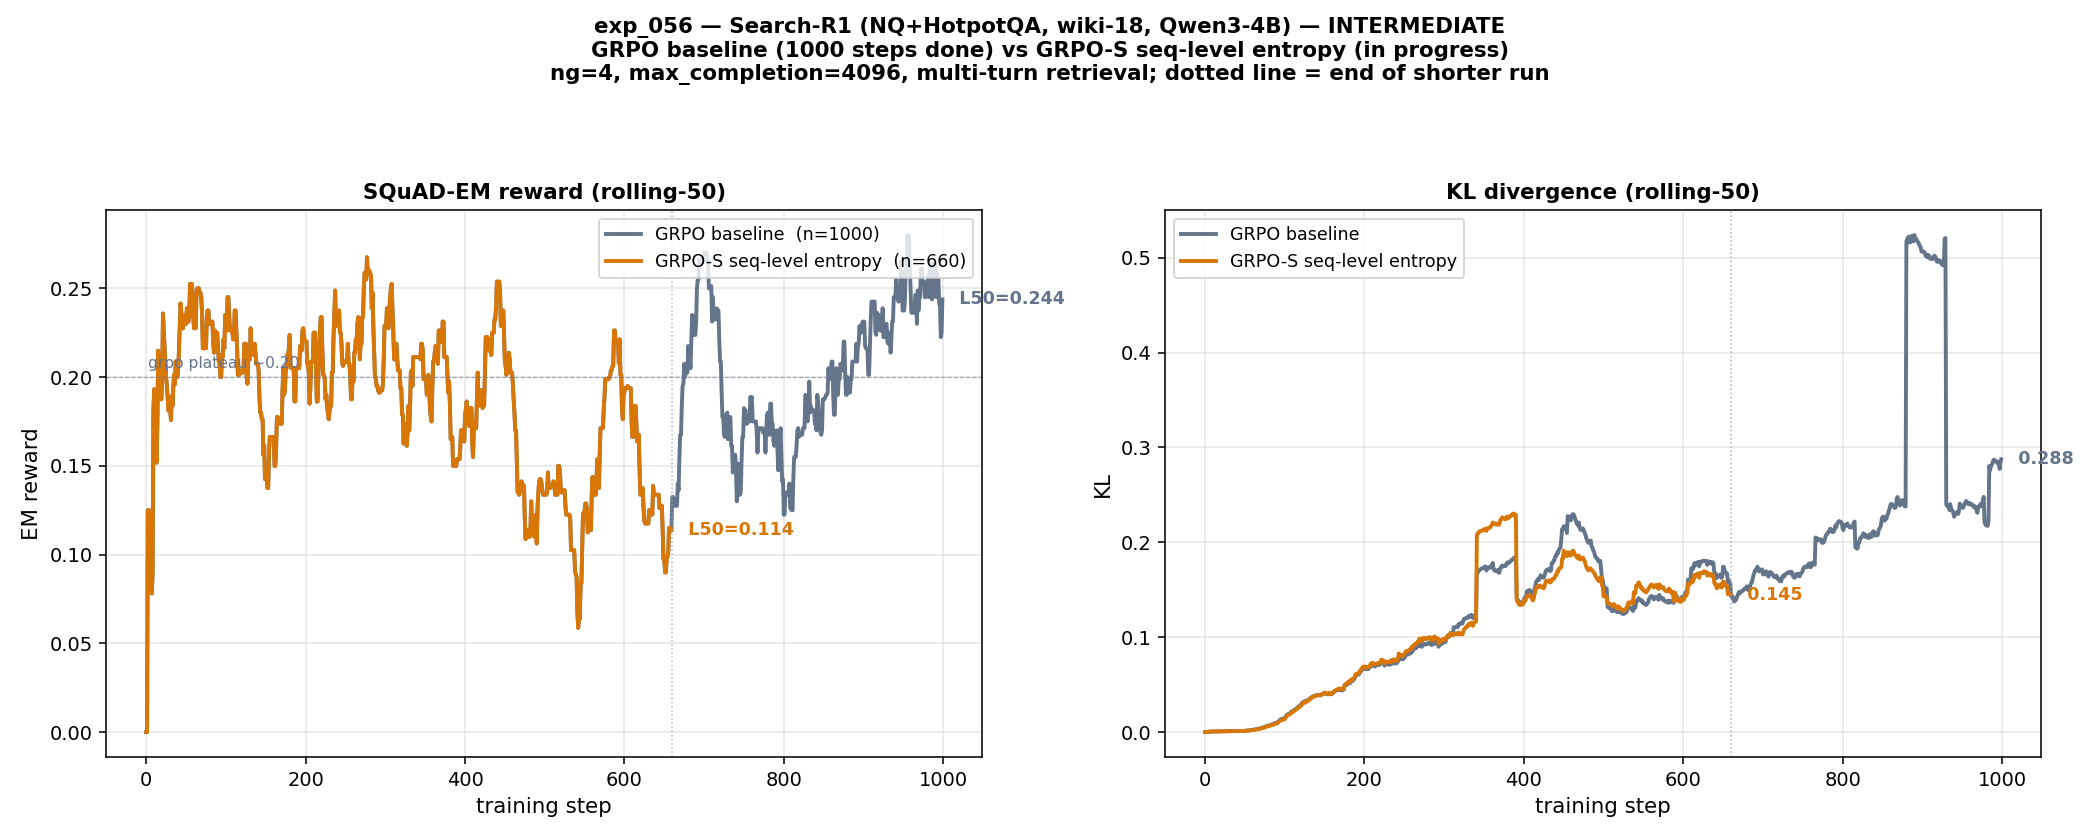
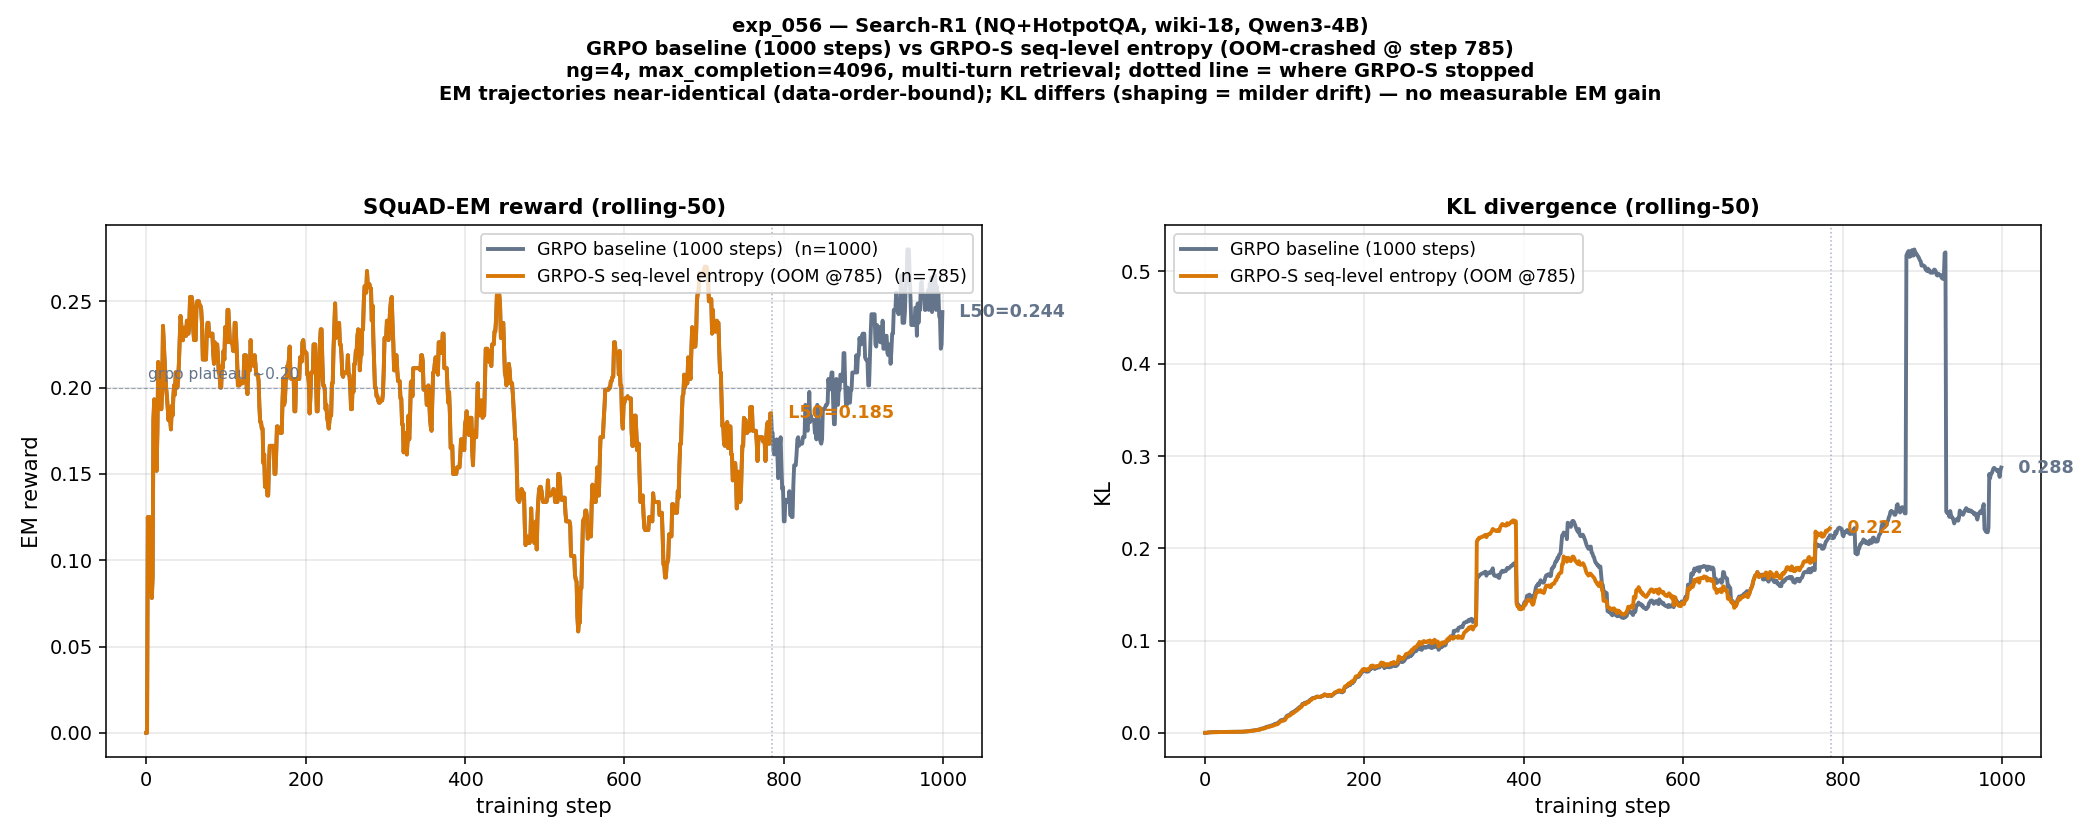
exp_056: finalize grpo vs grpo_s_entropy comparison
grpo completed 1000 steps (EM plateau ~0.20, last50 0.244).
grpo_s_entropy OOM-crashed at step 785 (full-vocab logits in backward).
EM trajectories near-identical through 785 (data-order-bound, no measurable
gain from seq-level entropy shaping); KL lower for grpo_s (milder drift).

diff --git a/experiments/exp_056_searchr1_qwen3_grpo_vs_shaped/plot_grpo_vs_grpo_s.py b/experiments/exp_056_searchr1_qwen3_grpo_vs_shaped/plot_grpo_vs_grpo_s.py
@@ -16,8 +16,8 @@ import matplotlib.pyplot as plt
 HERE = os.path.dirname(__file__)
 
 CURVES = [
-    ("grpo",           "GRPO baseline",             "#64748b"),
-    ("grpo_s_entropy", "GRPO-S seq-level entropy",  "#d97706"),
+    ("grpo",           "GRPO baseline (1000 steps)",          "#64748b"),
+    ("grpo_s_entropy", "GRPO-S seq-level entropy (OOM @785)", "#d97706"),
 ]
 
 
@@ -80,10 +80,11 @@ def main():
     ax_kl.legend(fontsize=9, loc="upper left")
 
     fig.suptitle(
-        "exp_056 — Search-R1 (NQ+HotpotQA, wiki-18, Qwen3-4B) — INTERMEDIATE\n"
-        "GRPO baseline (1000 steps done) vs GRPO-S seq-level entropy (in progress)\n"
-        "ng=4, max_completion=4096, multi-turn retrieval; dotted line = end of shorter run",
-        fontsize=11, weight="bold")
+        "exp_056 — Search-R1 (NQ+HotpotQA, wiki-18, Qwen3-4B)\n"
+        "GRPO baseline (1000 steps) vs GRPO-S seq-level entropy (OOM-crashed @ step 785)\n"
+        "ng=4, max_completion=4096, multi-turn retrieval; dotted line = where GRPO-S stopped\n"
+        "EM trajectories near-identical (data-order-bound); KL differs (shaping = milder drift) — no measurable EM gain",
+        fontsize=10, weight="bold")
 
     out = os.path.join(HERE, "figures", "exp056_grpo_vs_grpo_s_intermediate.png")
     os.makedirs(os.path.dirname(out), exist_ok=True)
